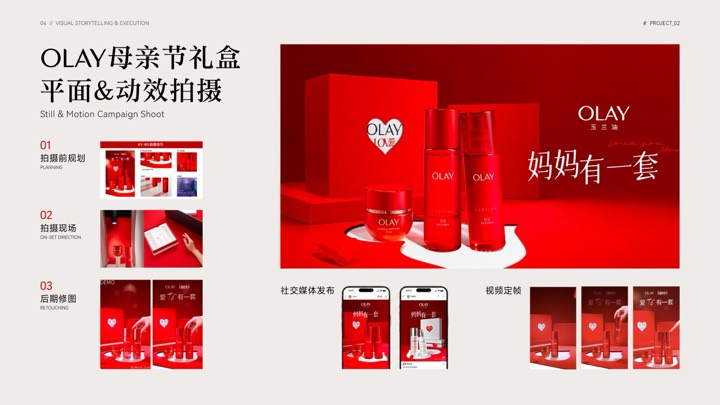
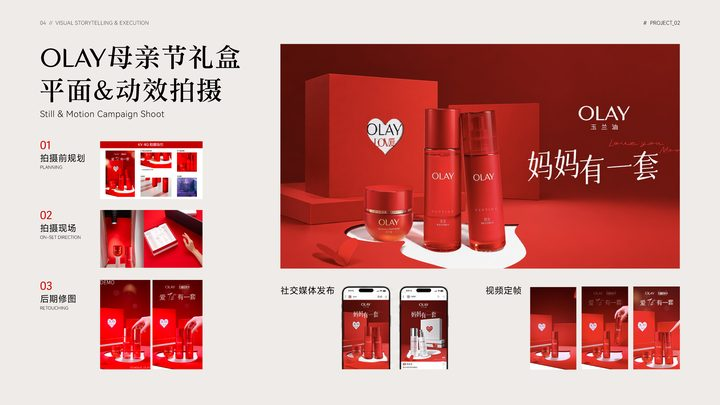
Update mothers day directory thumbnail

diff --git a/index.html b/index.html
@@ -148,7 +148,7 @@
           </a>
           <div class="project-thumb-grid">
             <a class="project-thumb" href="#olay-gift-box" data-project-link="olay-gift-box"><img loading="lazy" decoding="async" src="assets/thumbs/olay-gift-box.jpg" width="720" height="405" alt="OLAY 蛇年春节礼盒｜动效创意设计" /></a>
-            <a class="project-thumb" href="#olay-mothers-day" data-project-link="olay-mothers-day"><img loading="lazy" decoding="async" src="assets/thumbs/olay-mothers-day.jpg" width="720" height="405" alt="OLAY 母亲节礼盒｜平面&动效拍摄" /></a>
+          <a class="project-thumb" href="#olay-mothers-day" data-project-link="olay-mothers-day"><img loading="lazy" decoding="async" src="assets/thumbs/olay-mothers-day.jpg?v=20260611b" width="720" height="405" alt="OLAY 母亲节礼盒｜平面&动效拍摄" /></a>
             <a class="project-thumb" href="#urban-hunter" data-project-link="urban-hunter"><img loading="lazy" decoding="async" src="assets/thumbs/urban-hunter.jpg" width="720" height="405" alt="2022 FW Campaign｜鞋履新品上市形象片创意统筹与视觉执行" /></a>
             <a class="project-thumb" href="#chimelong" data-project-link="chimelong"><img loading="lazy" decoding="async" src="assets/thumbs/chimelong.jpg" width="720" height="405" alt="长隆集团度假区｜东南亚国际传播项目" /></a>
           </div>
